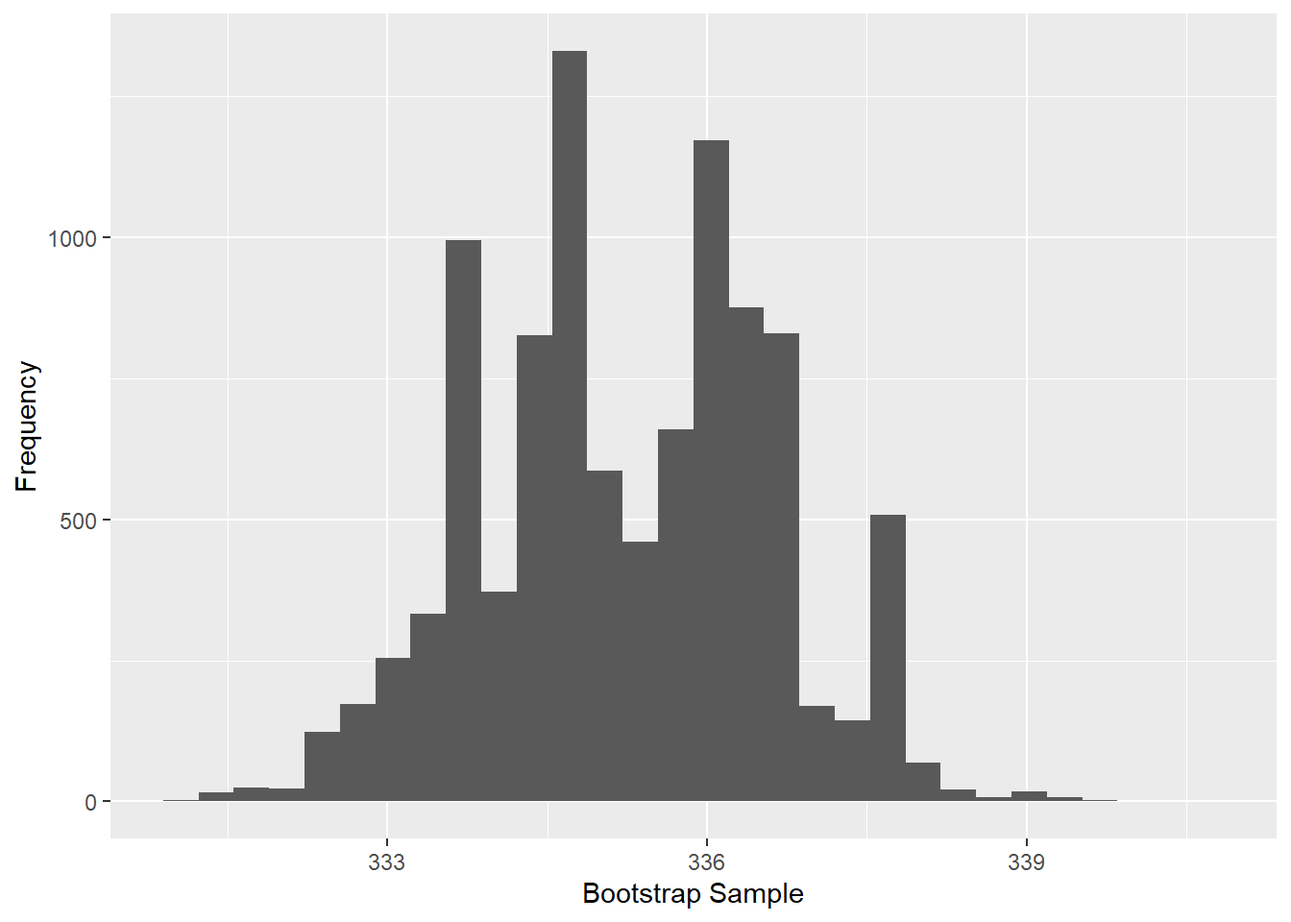
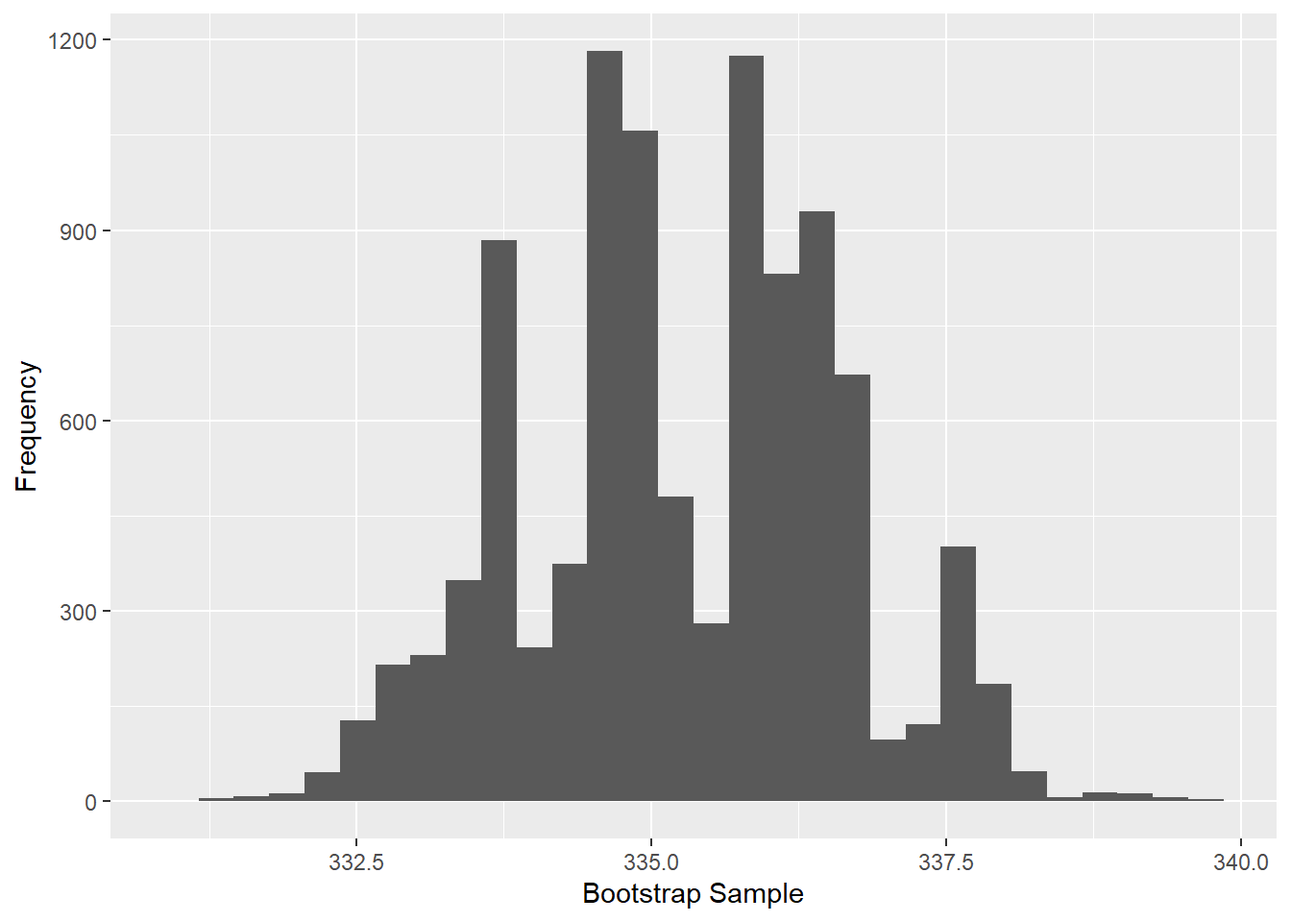
Python Bootstrapping 1

diff --git a/docs/introduction.html b/docs/introduction.html
@@ -23,7 +23,7 @@
 <meta name="author" content="Dr. Susan Simmons" />
 
 
-<meta name="date" content="2023-09-25" />
+<meta name="date" content="2023-09-27" />
 
   <meta name="viewport" content="width=device-width, initial-scale=1" />
   <meta name="apple-mobile-web-app-capable" content="yes" />
@@ -149,7 +149,10 @@ code span.wa { color: #60a0b0; font-weight: bold; font-style: italic; } /* Warni
 <li class="chapter" data-level="1" data-path="index.html"><a href="index.html"><i class="fa fa-check"></i><b>1</b> Data Mining</a></li>
 <li class="chapter" data-level="2" data-path="introduction.html"><a href="introduction.html"><i class="fa fa-check"></i><b>2</b> Introduction</a>
 <ul>
-<li class="chapter" data-level="2.1" data-path="introduction.html"><a href="introduction.html#bootstrapping"><i class="fa fa-check"></i><b>2.1</b> Bootstrapping</a></li>
+<li class="chapter" data-level="2.1" data-path="introduction.html"><a href="introduction.html#bootstrapping"><i class="fa fa-check"></i><b>2.1</b> Bootstrapping</a>
+<ul>
+<li class="chapter" data-level="2.1.1" data-path="introduction.html"><a href="introduction.html#python-for-bootstrapping"><i class="fa fa-check"></i><b>2.1.1</b> Python for Bootstrapping</a></li>
+</ul></li>
 <li class="chapter" data-level="2.2" data-path="introduction.html"><a href="introduction.html#adjusting-p-values"><i class="fa fa-check"></i><b>2.2</b> Adjusting p-values</a></li>
 <li class="chapter" data-level="2.3" data-path="introduction.html"><a href="introduction.html#transaction-data"><i class="fa fa-check"></i><b>2.3</b> Transaction data</a></li>
 <li class="chapter" data-level="2.4" data-path="introduction.html"><a href="introduction.html#association-analysis"><i class="fa fa-check"></i><b>2.4</b> Association Analysis</a></li>
@@ -222,8 +225,11 @@ code span.wa { color: #60a0b0; font-weight: bold; font-style: italic; } /* Warni
 <span id="cb1-26"><a href="introduction.html#cb1-26" tabindex="-1"></a><span class="fu">library</span>(partykit)</span>
 <span id="cb1-27"><a href="introduction.html#cb1-27" tabindex="-1"></a><span class="fu">library</span>(dbscan)</span>
 <span id="cb1-28"><a href="introduction.html#cb1-28" tabindex="-1"></a><span class="fu">library</span>(AmesHousing)</span>
-<span id="cb1-29"><a href="introduction.html#cb1-29" tabindex="-1"></a></span>
-<span id="cb1-30"><a href="introduction.html#cb1-30" tabindex="-1"></a><span class="co">#library(knitr)</span></span></code></pre></div>
+<span id="cb1-29"><a href="introduction.html#cb1-29" tabindex="-1"></a><span class="fu">library</span>(reticulate)</span>
+<span id="cb1-30"><a href="introduction.html#cb1-30" tabindex="-1"></a></span>
+<span id="cb1-31"><a href="introduction.html#cb1-31" tabindex="-1"></a><span class="fu">use_python</span>(<span class="st">&quot;C:</span><span class="sc">\\</span><span class="st">ProgramData</span><span class="sc">\\</span><span class="st">Anaconda3</span><span class="sc">\\</span><span class="st">python.exe&quot;</span>)</span>
+<span id="cb1-32"><a href="introduction.html#cb1-32" tabindex="-1"></a></span>
+<span id="cb1-33"><a href="introduction.html#cb1-33" tabindex="-1"></a><span class="co">#library(knitr)</span></span></code></pre></div>
 <p>Also, be sure to load the following data sets:</p>
 <div class="sourceCode" id="cb2"><pre class="sourceCode r"><code class="sourceCode r"><span id="cb2-1"><a href="introduction.html#cb2-1" tabindex="-1"></a>check<span class="ot">=</span><span class="fu">read.table</span>(<span class="st">&quot;Q:</span><span class="sc">\\</span><span class="st">My Drive</span><span class="sc">\\</span><span class="st">Data Mining</span><span class="sc">\\</span><span class="st">Data</span><span class="sc">\\</span><span class="st">Checking.csv&quot;</span>,<span class="at">sep=</span><span class="st">&#39;,&#39;</span>,<span class="at">header=</span>T)</span>
 <span id="cb2-2"><a href="introduction.html#cb2-2" tabindex="-1"></a></span>
@@ -258,12 +264,12 @@ code span.wa { color: #60a0b0; font-weight: bold; font-style: italic; } /* Warni
 <span id="cb5-8"><a href="introduction.html#cb5-8" tabindex="-1"></a>  boot.med[i]<span class="ot">=</span><span class="fu">median</span>(boot.samp)</span>
 <span id="cb5-9"><a href="introduction.html#cb5-9" tabindex="-1"></a>}</span>
 <span id="cb5-10"><a href="introduction.html#cb5-10" tabindex="-1"></a><span class="fu">sd</span>(boot.med)</span>
-<span id="cb5-11"><a href="introduction.html#cb5-11" tabindex="-1"></a><span class="do">## [1] 1.351849</span></span>
+<span id="cb5-11"><a href="introduction.html#cb5-11" tabindex="-1"></a><span class="do">## [1] 1.327341</span></span>
 <span id="cb5-12"><a href="introduction.html#cb5-12" tabindex="-1"></a>act.med</span>
 <span id="cb5-13"><a href="introduction.html#cb5-13" tabindex="-1"></a><span class="do">## [1] 335.17</span></span>
 <span id="cb5-14"><a href="introduction.html#cb5-14" tabindex="-1"></a><span class="fu">quantile</span>(boot.med,<span class="at">probs =</span> <span class="fu">c</span>(<span class="fl">0.025</span>,<span class="fl">0.975</span>))</span>
 <span id="cb5-15"><a href="introduction.html#cb5-15" tabindex="-1"></a><span class="do">##   2.5%  97.5% </span></span>
-<span id="cb5-16"><a href="introduction.html#cb5-16" tabindex="-1"></a><span class="do">## 332.67 337.79</span></span>
+<span id="cb5-16"><a href="introduction.html#cb5-16" tabindex="-1"></a><span class="do">## 332.75 337.79</span></span>
 <span id="cb5-17"><a href="introduction.html#cb5-17" tabindex="-1"></a><span class="fu">ggplot</span>(<span class="at">data=</span><span class="fu">data.frame</span>(boot.med),<span class="fu">aes</span>(<span class="at">x=</span>boot.med))<span class="sc">+</span><span class="fu">geom_histogram</span>() <span class="sc">+</span> <span class="fu">labs</span>(<span class="at">x=</span><span class="st">&quot;Bootstrap Sample&quot;</span>,<span class="at">y=</span><span class="st">&quot;Frequency&quot;</span>)</span>
 <span id="cb5-18"><a href="introduction.html#cb5-18" tabindex="-1"></a><span class="do">## `stat_bin()` using `bins = 30`. Pick better value with `binwidth`.</span></span></code></pre></div>
 <p><img src="bookdownproj_files/figure-html/bootstrap%20confidence%20interval-3.png" width="672" />
@@ -285,28 +291,60 @@ The second example is exploring if the median price of homes in Iowa with air co
 <pre><code>## `stat_bin()` using `bins = 30`. Pick better value with `binwidth`.</code></pre>
 <p><img src="bookdownproj_files/figure-html/bootstrap%20hypothesis%20test-1.png" width="672" /></p>
 <div class="sourceCode" id="cb8"><pre class="sourceCode r"><code class="sourceCode r"><span id="cb8-1"><a href="introduction.html#cb8-1" tabindex="-1"></a><span class="fu">quantile</span>(diff.stat,<span class="at">probs =</span> <span class="fu">c</span>(<span class="fl">0.005</span>,<span class="fl">0.995</span>))</span></code></pre></div>
-<pre><code>##  0.5% 99.5% 
-## 58750 77000</code></pre>
+<pre><code>##     0.5%    99.5% 
+## 58744.78 76840.30</code></pre>
 <p>Since the confidence interval does NOT include 0, we would conclude that the medians appear to be significantly different.</p>
+<div id="python-for-bootstrapping" class="section level3 hasAnchor" number="2.1.1">
+<h3><span class="header-section-number">2.1.1</span> Python for Bootstrapping<a href="introduction.html#python-for-bootstrapping" class="anchor-section" aria-label="Anchor link to header"></a></h3>
+<div class="sourceCode" id="cb10"><pre class="sourceCode python"><code class="sourceCode python"><span id="cb10-1"><a href="introduction.html#cb10-1" tabindex="-1"></a><span class="im">from</span> matplotlib <span class="im">import</span> pyplot <span class="im">as</span> plt</span>
+<span id="cb10-2"><a href="introduction.html#cb10-2" tabindex="-1"></a><span class="im">import</span> numpy <span class="im">as</span> np</span>
+<span id="cb10-3"><a href="introduction.html#cb10-3" tabindex="-1"></a><span class="im">import</span> statistics</span>
+<span id="cb10-4"><a href="introduction.html#cb10-4" tabindex="-1"></a><span class="im">from</span> numpy <span class="im">import</span> random</span>
+<span id="cb10-5"><a href="introduction.html#cb10-5" tabindex="-1"></a></span>
+<span id="cb10-6"><a href="introduction.html#cb10-6" tabindex="-1"></a>co2_py <span class="op">=</span> r.co2</span>
+<span id="cb10-7"><a href="introduction.html#cb10-7" tabindex="-1"></a>plt.hist(co2_py)</span></code></pre></div>
+<pre><code>## (array([50., 73., 58., 48., 44., 42., 37., 51., 40., 25.]), array([313.18 , 318.546, 323.912, 329.278, 334.644, 340.01 , 345.376,
+##        350.742, 356.108, 361.474, 366.84 ]), &lt;BarContainer object of 10 artists&gt;)</code></pre>
+<div class="sourceCode" id="cb12"><pre class="sourceCode python"><code class="sourceCode python"><span id="cb12-1"><a href="introduction.html#cb12-1" tabindex="-1"></a>plt.show()</span>
+<span id="cb12-2"><a href="introduction.html#cb12-2" tabindex="-1"></a></span>
+<span id="cb12-3"><a href="introduction.html#cb12-3" tabindex="-1"></a><span class="co"># Actual median</span></span></code></pre></div>
+<p><img src="bookdownproj_files/figure-html/unnamed-chunk-1-1.png" width="672" /></p>
+<div class="sourceCode" id="cb13"><pre class="sourceCode python"><code class="sourceCode python"><span id="cb13-1"><a href="introduction.html#cb13-1" tabindex="-1"></a><span class="bu">print</span>(statistics.median(co2_py))</span>
+<span id="cb13-2"><a href="introduction.html#cb13-2" tabindex="-1"></a></span>
+<span id="cb13-3"><a href="introduction.html#cb13-3" tabindex="-1"></a><span class="co"># Bootstrap sample</span></span></code></pre></div>
+<pre><code>## 335.17</code></pre>
+<div class="sourceCode" id="cb15"><pre class="sourceCode python"><code class="sourceCode python"><span id="cb15-1"><a href="introduction.html#cb15-1" tabindex="-1"></a>n <span class="op">=</span> <span class="bu">len</span>(co2_py)</span>
+<span id="cb15-2"><a href="introduction.html#cb15-2" tabindex="-1"></a>temp <span class="op">=</span> []</span>
+<span id="cb15-3"><a href="introduction.html#cb15-3" tabindex="-1"></a><span class="cf">for</span> i <span class="kw">in</span> <span class="bu">range</span>(<span class="dv">1000</span>):</span>
+<span id="cb15-4"><a href="introduction.html#cb15-4" tabindex="-1"></a>  temp.append(statistics.median(random.choice(co2_py,n)))</span>
+<span id="cb15-5"><a href="introduction.html#cb15-5" tabindex="-1"></a><span class="co">#temp =statistics.median(random.choice(co2_py,n))</span></span>
+<span id="cb15-6"><a href="introduction.html#cb15-6" tabindex="-1"></a></span>
+<span id="cb15-7"><a href="introduction.html#cb15-7" tabindex="-1"></a><span class="bu">print</span>(statistics.stdev(temp))</span></code></pre></div>
+<pre><code>## 1.3351758780776406</code></pre>
+<div class="sourceCode" id="cb17"><pre class="sourceCode python"><code class="sourceCode python"><span id="cb17-1"><a href="introduction.html#cb17-1" tabindex="-1"></a><span class="bu">print</span>(<span class="st">&quot;Lower 95</span><span class="sc">% c</span><span class="st">onfidence interval for median&quot;</span>,np.quantile(temp,<span class="fl">0.025</span>))</span></code></pre></div>
+<pre><code>## Lower 95% confidence interval for median 332.75</code></pre>
+<div class="sourceCode" id="cb19"><pre class="sourceCode python"><code class="sourceCode python"><span id="cb19-1"><a href="introduction.html#cb19-1" tabindex="-1"></a><span class="bu">print</span>(<span class="st">&quot;Upper 95</span><span class="sc">% c</span><span class="st">onfidence interval for median&quot;</span>,np.quantile(temp,<span class="fl">0.975</span>))</span></code></pre></div>
+<pre><code>## Upper 95% confidence interval for median 337.79</code></pre>
+</div>
 </div>
 <div id="adjusting-p-values" class="section level2 hasAnchor" number="2.2">
 <h2><span class="header-section-number">2.2</span> Adjusting p-values<a href="introduction.html#adjusting-p-values" class="anchor-section" aria-label="Anchor link to header"></a></h2>
 <p>The package p.adjust will do the Bonferroni adjustment, Benjamini &amp; Hochberg and many other adjustments for p-values when you are conducting a lot of tests! All you need to do is send it a vector of p-values and it will return the adjusted p-values!</p>
-<div class="sourceCode" id="cb10"><pre class="sourceCode r"><code class="sourceCode r"><span id="cb10-1"><a href="introduction.html#cb10-1" tabindex="-1"></a></span>
-<span id="cb10-2"><a href="introduction.html#cb10-2" tabindex="-1"></a>temp<span class="ot">=</span><span class="fu">c</span>(<span class="fl">0.001</span>,<span class="fl">0.03</span>,<span class="fl">0.2</span>,<span class="fl">0.4</span>)</span>
-<span id="cb10-3"><a href="introduction.html#cb10-3" tabindex="-1"></a><span class="co">#Bonferoni</span></span>
-<span id="cb10-4"><a href="introduction.html#cb10-4" tabindex="-1"></a><span class="fu">p.adjust</span>(temp,<span class="at">method=</span><span class="st">&quot;bonferroni&quot;</span>)</span>
-<span id="cb10-5"><a href="introduction.html#cb10-5" tabindex="-1"></a><span class="do">## [1] 0.004 0.120 0.800 1.000</span></span>
-<span id="cb10-6"><a href="introduction.html#cb10-6" tabindex="-1"></a><span class="co">#Benjamini &amp; Hochberg</span></span>
-<span id="cb10-7"><a href="introduction.html#cb10-7" tabindex="-1"></a><span class="fu">p.adjust</span>(temp,<span class="at">method=</span><span class="st">&quot;BH&quot;</span>)</span>
-<span id="cb10-8"><a href="introduction.html#cb10-8" tabindex="-1"></a><span class="do">## [1] 0.0040000 0.0600000 0.2666667 0.4000000</span></span></code></pre></div>
+<div class="sourceCode" id="cb21"><pre class="sourceCode r"><code class="sourceCode r"><span id="cb21-1"><a href="introduction.html#cb21-1" tabindex="-1"></a></span>
+<span id="cb21-2"><a href="introduction.html#cb21-2" tabindex="-1"></a>temp<span class="ot">=</span><span class="fu">c</span>(<span class="fl">0.001</span>,<span class="fl">0.03</span>,<span class="fl">0.2</span>,<span class="fl">0.4</span>)</span>
+<span id="cb21-3"><a href="introduction.html#cb21-3" tabindex="-1"></a><span class="co">#Bonferoni</span></span>
+<span id="cb21-4"><a href="introduction.html#cb21-4" tabindex="-1"></a><span class="fu">p.adjust</span>(temp,<span class="at">method=</span><span class="st">&quot;bonferroni&quot;</span>)</span>
+<span id="cb21-5"><a href="introduction.html#cb21-5" tabindex="-1"></a><span class="do">## [1] 0.004 0.120 0.800 1.000</span></span>
+<span id="cb21-6"><a href="introduction.html#cb21-6" tabindex="-1"></a><span class="co">#Benjamini &amp; Hochberg</span></span>
+<span id="cb21-7"><a href="introduction.html#cb21-7" tabindex="-1"></a><span class="fu">p.adjust</span>(temp,<span class="at">method=</span><span class="st">&quot;BH&quot;</span>)</span>
+<span id="cb21-8"><a href="introduction.html#cb21-8" tabindex="-1"></a><span class="do">## [1] 0.0040000 0.0600000 0.2666667 0.4000000</span></span></code></pre></div>
 </div>
 <div id="transaction-data" class="section level2 hasAnchor" number="2.3">
 <h2><span class="header-section-number">2.3</span> Transaction data<a href="introduction.html#transaction-data" class="anchor-section" aria-label="Anchor link to header"></a></h2>
 <p>A basic concept you will need is how to deal with transactional data. Trasactional data is usually in the form of a long data set with multiple observation per “ID”. Take for example the following small data set:</p>
 <table class=" lightable-paper lightable-striped" style="font-family: &quot;Arial Narrow&quot;, arial, helvetica, sans-serif; width: auto !important; margin-left: auto; margin-right: auto;">
 <caption>
-<span id="tab:unnamed-chunk-1">Table 2.1: </span>Example
+<span id="tab:unnamed-chunk-2">Table 2.1: </span>Example
 </caption>
 <thead>
 <tr>
@@ -425,16 +463,16 @@ NA
 </tbody>
 </table>
 <p>Notice that there are four transactions for Person 1, four transactions for Person 2 (including a missing value) and three transactions for Person 3. We will need to “roll” these up into one observation per person.</p>
-<div class="sourceCode" id="cb11"><pre class="sourceCode r"><code class="sourceCode r"><span id="cb11-1"><a href="introduction.html#cb11-1" tabindex="-1"></a>new.check <span class="ot">=</span> check <span class="sc">%&gt;%</span> <span class="fu">group_by</span>(ID) <span class="sc">%&gt;%</span></span>
-<span id="cb11-2"><a href="introduction.html#cb11-2" tabindex="-1"></a>  <span class="fu">summarise</span>(<span class="at">mean.check=</span><span class="fu">mean</span>(Checking,<span class="at">na.rm=</span>T),<span class="at">std.check=</span><span class="fu">sd</span>(Checking,<span class="at">na.rm=</span>T))</span></code></pre></div>
+<div class="sourceCode" id="cb22"><pre class="sourceCode r"><code class="sourceCode r"><span id="cb22-1"><a href="introduction.html#cb22-1" tabindex="-1"></a>new.check <span class="ot">=</span> check <span class="sc">%&gt;%</span> <span class="fu">group_by</span>(ID) <span class="sc">%&gt;%</span></span>
+<span id="cb22-2"><a href="introduction.html#cb22-2" tabindex="-1"></a>  <span class="fu">summarise</span>(<span class="at">mean.check=</span><span class="fu">mean</span>(Checking,<span class="at">na.rm=</span>T),<span class="at">std.check=</span><span class="fu">sd</span>(Checking,<span class="at">na.rm=</span>T))</span></code></pre></div>
 <p>It is HIGHLY recommended that you ALWAYS create a flag for missing values (do this BEFORE rolling up). The following code creates the flag for the missing values and then rolls everything up:</p>
-<div class="sourceCode" id="cb12"><pre class="sourceCode r"><code class="sourceCode r"><span id="cb12-1"><a href="introduction.html#cb12-1" tabindex="-1"></a>check<span class="sc">$</span>flag<span class="ot">=</span><span class="fu">ifelse</span>(<span class="fu">is.na</span>(check<span class="sc">$</span>Checking),<span class="dv">1</span>,<span class="dv">0</span>)</span>
-<span id="cb12-2"><a href="introduction.html#cb12-2" tabindex="-1"></a></span>
-<span id="cb12-3"><a href="introduction.html#cb12-3" tabindex="-1"></a>new.check <span class="ot">=</span> check <span class="sc">%&gt;%</span> <span class="fu">group_by</span>(ID) <span class="sc">%&gt;%</span></span>
-<span id="cb12-4"><a href="introduction.html#cb12-4" tabindex="-1"></a>  <span class="fu">summarise</span>(<span class="at">mean.check=</span><span class="fu">mean</span>(Checking,<span class="at">na.rm=</span>T),<span class="at">std.check=</span><span class="fu">sd</span>(Checking,<span class="at">na.rm=</span>T),<span class="at">na.check=</span><span class="fu">sum</span>(flag))</span></code></pre></div>
+<div class="sourceCode" id="cb23"><pre class="sourceCode r"><code class="sourceCode r"><span id="cb23-1"><a href="introduction.html#cb23-1" tabindex="-1"></a>check<span class="sc">$</span>flag<span class="ot">=</span><span class="fu">ifelse</span>(<span class="fu">is.na</span>(check<span class="sc">$</span>Checking),<span class="dv">1</span>,<span class="dv">0</span>)</span>
+<span id="cb23-2"><a href="introduction.html#cb23-2" tabindex="-1"></a></span>
+<span id="cb23-3"><a href="introduction.html#cb23-3" tabindex="-1"></a>new.check <span class="ot">=</span> check <span class="sc">%&gt;%</span> <span class="fu">group_by</span>(ID) <span class="sc">%&gt;%</span></span>
+<span id="cb23-4"><a href="introduction.html#cb23-4" tabindex="-1"></a>  <span class="fu">summarise</span>(<span class="at">mean.check=</span><span class="fu">mean</span>(Checking,<span class="at">na.rm=</span>T),<span class="at">std.check=</span><span class="fu">sd</span>(Checking,<span class="at">na.rm=</span>T),<span class="at">na.check=</span><span class="fu">sum</span>(flag))</span></code></pre></div>
 <table class=" lightable-paper lightable-striped" style="font-family: &quot;Arial Narrow&quot;, arial, helvetica, sans-serif; width: auto !important; margin-left: auto; margin-right: auto;">
 <caption>
-<span id="tab:unnamed-chunk-2">Table 2.2: </span>Rolled up
+<span id="tab:unnamed-chunk-3">Table 2.2: </span>Rolled up
 </caption>
 <thead>
 <tr>
@@ -628,8 +666,8 @@ bread
 </tbody>
 </table>
 <p>As you can see, there is a separate line for each item. If we want to analyze this data set with the package ‘arules’, we need the data to be wide (not long). In other words, one line per ID. We can create the wide data set in R by using the following line (and then “inspect” it or view it).</p>
-<div class="sourceCode" id="cb13"><pre class="sourceCode r"><code class="sourceCode r"><span id="cb13-1"><a href="introduction.html#cb13-1" tabindex="-1"></a>trans.dat <span class="ot">&lt;-</span> <span class="fu">as</span>(<span class="fu">split</span>(temp.dat<span class="sc">$</span>Grocery, temp.dat<span class="sc">$</span>ID), <span class="st">&quot;transactions&quot;</span>)</span>
-<span id="cb13-2"><a href="introduction.html#cb13-2" tabindex="-1"></a><span class="fu">inspect</span>(trans.dat)</span></code></pre></div>
+<div class="sourceCode" id="cb24"><pre class="sourceCode r"><code class="sourceCode r"><span id="cb24-1"><a href="introduction.html#cb24-1" tabindex="-1"></a>trans.dat <span class="ot">&lt;-</span> <span class="fu">as</span>(<span class="fu">split</span>(temp.dat<span class="sc">$</span>Grocery, temp.dat<span class="sc">$</span>ID), <span class="st">&quot;transactions&quot;</span>)</span>
+<span id="cb24-2"><a href="introduction.html#cb24-2" tabindex="-1"></a><span class="fu">inspect</span>(trans.dat)</span></code></pre></div>
 <pre><code>##      items                             transactionID
 ## [1]  {bread, egg, oat packet, papaya}  1            
 ## [2]  {bread, milk, oat packet, papaya} 2            
@@ -643,14 +681,14 @@ bread
 ## [10] {bread, milk, papaya}             10           
 ## [11] {egg, milk}                       11</code></pre>
 <p>The following code runs the association analysis and stores the results in the object rules. Once you have this stored object, you can view it and partition it in different ways..</p>
-<div class="sourceCode" id="cb15"><pre class="sourceCode r"><code class="sourceCode r"><span id="cb15-1"><a href="introduction.html#cb15-1" tabindex="-1"></a>trans.dat<span class="sc">@</span>itemInfo<span class="sc">$</span>labels</span></code></pre></div>
+<div class="sourceCode" id="cb26"><pre class="sourceCode r"><code class="sourceCode r"><span id="cb26-1"><a href="introduction.html#cb26-1" tabindex="-1"></a>trans.dat<span class="sc">@</span>itemInfo<span class="sc">$</span>labels</span></code></pre></div>
 <pre><code>## [1] &quot;bread&quot;      &quot;butter&quot;     &quot;egg&quot;        &quot;milk&quot;       &quot;oat packet&quot;
 ## [6] &quot;papaya&quot;</code></pre>
-<div class="sourceCode" id="cb17"><pre class="sourceCode r"><code class="sourceCode r"><span id="cb17-1"><a href="introduction.html#cb17-1" tabindex="-1"></a><span class="co"># Create an item frequency plot for the top 3 items</span></span>
-<span id="cb17-2"><a href="introduction.html#cb17-2" tabindex="-1"></a><span class="fu">itemFrequencyPlot</span>(trans.dat,<span class="at">topN=</span><span class="dv">3</span>,<span class="at">type=</span><span class="st">&quot;absolute&quot;</span>)</span></code></pre></div>
+<div class="sourceCode" id="cb28"><pre class="sourceCode r"><code class="sourceCode r"><span id="cb28-1"><a href="introduction.html#cb28-1" tabindex="-1"></a><span class="co"># Create an item frequency plot for the top 3 items</span></span>
+<span id="cb28-2"><a href="introduction.html#cb28-2" tabindex="-1"></a><span class="fu">itemFrequencyPlot</span>(trans.dat,<span class="at">topN=</span><span class="dv">3</span>,<span class="at">type=</span><span class="st">&quot;absolute&quot;</span>)</span></code></pre></div>
 <p><img src="bookdownproj_files/figure-html/association2-1.png" width="672" /></p>
-<div class="sourceCode" id="cb18"><pre class="sourceCode r"><code class="sourceCode r"><span id="cb18-1"><a href="introduction.html#cb18-1" tabindex="-1"></a><span class="co"># Get the rules</span></span>
-<span id="cb18-2"><a href="introduction.html#cb18-2" tabindex="-1"></a>rules <span class="ot">&lt;-</span> <span class="fu">apriori</span>(trans.dat, <span class="at">parameter =</span> <span class="fu">list</span>(<span class="at">supp =</span> <span class="fl">0.1</span>, <span class="at">conf =</span> <span class="fl">0.001</span>, <span class="at">target=</span><span class="st">&quot;rules&quot;</span>))</span></code></pre></div>
+<div class="sourceCode" id="cb29"><pre class="sourceCode r"><code class="sourceCode r"><span id="cb29-1"><a href="introduction.html#cb29-1" tabindex="-1"></a><span class="co"># Get the rules</span></span>
+<span id="cb29-2"><a href="introduction.html#cb29-2" tabindex="-1"></a>rules <span class="ot">&lt;-</span> <span class="fu">apriori</span>(trans.dat, <span class="at">parameter =</span> <span class="fu">list</span>(<span class="at">supp =</span> <span class="fl">0.1</span>, <span class="at">conf =</span> <span class="fl">0.001</span>, <span class="at">target=</span><span class="st">&quot;rules&quot;</span>))</span></code></pre></div>
 <pre><code>## Apriori
 ## 
 ## Parameter specification:
@@ -672,9 +710,9 @@ bread
 ## checking subsets of size 1 2 3 done [0.00s].
 ## writing ... [32 rule(s)] done [0.00s].
 ## creating S4 object  ... done [0.00s].</code></pre>
-<div class="sourceCode" id="cb20"><pre class="sourceCode r"><code class="sourceCode r"><span id="cb20-1"><a href="introduction.html#cb20-1" tabindex="-1"></a>rules<span class="ot">&lt;-</span><span class="fu">sort</span>(rules, <span class="at">by=</span><span class="st">&quot;confidence&quot;</span>, <span class="at">decreasing=</span><span class="cn">TRUE</span>)</span>
-<span id="cb20-2"><a href="introduction.html#cb20-2" tabindex="-1"></a></span>
-<span id="cb20-3"><a href="introduction.html#cb20-3" tabindex="-1"></a><span class="fu">inspect</span>(rules[<span class="dv">1</span><span class="sc">:</span><span class="dv">4</span>])</span></code></pre></div>
+<div class="sourceCode" id="cb31"><pre class="sourceCode r"><code class="sourceCode r"><span id="cb31-1"><a href="introduction.html#cb31-1" tabindex="-1"></a>rules<span class="ot">&lt;-</span><span class="fu">sort</span>(rules, <span class="at">by=</span><span class="st">&quot;confidence&quot;</span>, <span class="at">decreasing=</span><span class="cn">TRUE</span>)</span>
+<span id="cb31-2"><a href="introduction.html#cb31-2" tabindex="-1"></a></span>
+<span id="cb31-3"><a href="introduction.html#cb31-3" tabindex="-1"></a><span class="fu">inspect</span>(rules[<span class="dv">1</span><span class="sc">:</span><span class="dv">4</span>])</span></code></pre></div>
 <pre><code>##     lhs                    rhs      support   confidence coverage  lift    
 ## [1] {butter}            =&gt; {bread}  0.2727273 1.0000000  0.2727273 1.571429
 ## [2] {bread, oat packet} =&gt; {papaya} 0.1818182 1.0000000  0.1818182 1.833333
@@ -685,7 +723,7 @@ bread
 ## [2] 2    
 ## [3] 3    
 ## [4] 4</code></pre>
-<div class="sourceCode" id="cb22"><pre class="sourceCode r"><code class="sourceCode r"><span id="cb22-1"><a href="introduction.html#cb22-1" tabindex="-1"></a>oat.rules <span class="ot">=</span> <span class="fu">apriori</span>(trans.dat, <span class="at">parameter =</span> <span class="fu">list</span>(<span class="at">supp=</span><span class="fl">0.001</span>, <span class="at">conf=</span><span class="fl">0.8</span>),<span class="at">appearance =</span> <span class="fu">list</span>(<span class="at">default=</span><span class="st">&quot;lhs&quot;</span>,<span class="at">rhs=</span><span class="st">&quot;oat packet&quot;</span>))</span></code></pre></div>
+<div class="sourceCode" id="cb33"><pre class="sourceCode r"><code class="sourceCode r"><span id="cb33-1"><a href="introduction.html#cb33-1" tabindex="-1"></a>oat.rules <span class="ot">=</span> <span class="fu">apriori</span>(trans.dat, <span class="at">parameter =</span> <span class="fu">list</span>(<span class="at">supp=</span><span class="fl">0.001</span>, <span class="at">conf=</span><span class="fl">0.8</span>),<span class="at">appearance =</span> <span class="fu">list</span>(<span class="at">default=</span><span class="st">&quot;lhs&quot;</span>,<span class="at">rhs=</span><span class="st">&quot;oat packet&quot;</span>))</span></code></pre></div>
 <pre><code>## Apriori
 ## 
 ## Parameter specification:
@@ -707,7 +745,7 @@ bread
 ## checking subsets of size 1 2 3 4 done [0.00s].
 ## writing ... [2 rule(s)] done [0.00s].
 ## creating S4 object  ... done [0.00s].</code></pre>
-<div class="sourceCode" id="cb24"><pre class="sourceCode r"><code class="sourceCode r"><span id="cb24-1"><a href="introduction.html#cb24-1" tabindex="-1"></a>oat.rules2 <span class="ot">=</span> <span class="fu">apriori</span>(trans.dat, <span class="at">parameter =</span> <span class="fu">list</span>(<span class="at">supp=</span><span class="fl">0.001</span>, <span class="at">conf=</span><span class="fl">0.8</span>),<span class="at">appearance =</span> <span class="fu">list</span>(<span class="at">lhs=</span><span class="st">&quot;oat packet&quot;</span>, <span class="at">default=</span><span class="st">&quot;rhs&quot;</span>))</span></code></pre></div>
+<div class="sourceCode" id="cb35"><pre class="sourceCode r"><code class="sourceCode r"><span id="cb35-1"><a href="introduction.html#cb35-1" tabindex="-1"></a>oat.rules2 <span class="ot">=</span> <span class="fu">apriori</span>(trans.dat, <span class="at">parameter =</span> <span class="fu">list</span>(<span class="at">supp=</span><span class="fl">0.001</span>, <span class="at">conf=</span><span class="fl">0.8</span>),<span class="at">appearance =</span> <span class="fu">list</span>(<span class="at">lhs=</span><span class="st">&quot;oat packet&quot;</span>, <span class="at">default=</span><span class="st">&quot;rhs&quot;</span>))</span></code></pre></div>
 <pre><code>## Apriori
 ## 
 ## Parameter specification:
@@ -729,13 +767,13 @@ bread
 ## checking subsets of size 1 2 done [0.00s].
 ## writing ... [0 rule(s)] done [0.00s].
 ## creating S4 object  ... done [0.00s].</code></pre>
-<div class="sourceCode" id="cb26"><pre class="sourceCode r"><code class="sourceCode r"><span id="cb26-1"><a href="introduction.html#cb26-1" tabindex="-1"></a><span class="fu">plot</span>(rules)</span></code></pre></div>
+<div class="sourceCode" id="cb37"><pre class="sourceCode r"><code class="sourceCode r"><span id="cb37-1"><a href="introduction.html#cb37-1" tabindex="-1"></a><span class="fu">plot</span>(rules)</span></code></pre></div>
 <pre><code>## To reduce overplotting, jitter is added! Use jitter = 0 to prevent jitter.</code></pre>
 <p><img src="bookdownproj_files/figure-html/association2-2.png" width="672" /></p>
-<div class="sourceCode" id="cb28"><pre class="sourceCode r"><code class="sourceCode r"><span id="cb28-1"><a href="introduction.html#cb28-1" tabindex="-1"></a>top10rules <span class="ot">=</span> <span class="fu">head</span>(rules, <span class="at">n =</span> <span class="dv">10</span>, <span class="at">by =</span> <span class="st">&quot;confidence&quot;</span>)</span>
-<span id="cb28-2"><a href="introduction.html#cb28-2" tabindex="-1"></a><span class="fu">plot</span>(top10rules, <span class="at">method =</span> <span class="st">&quot;graph&quot;</span>,  <span class="at">engine =</span> <span class="st">&quot;htmlwidget&quot;</span>)</span></code></pre></div>
-<div class="visNetwork html-widget html-fill-item-overflow-hidden html-fill-item" id="htmlwidget-1d07af6bfe9a1e497898" style="width:672px;height:480px;"></div>
-<script type="application/json" data-for="htmlwidget-1d07af6bfe9a1e497898">{"x":{"nodes":{"id":[1,2,3,4,5,6,7,8,9,10,11,12,13,14,15,16],"label":["bread","butter","egg","milk","oat packet","papaya","rule 1","rule 2","rule 3","rule 4","rule 5","rule 6","rule 7","rule 8","rule 9","rule 10"],"group":[1,1,1,1,1,1,2,2,2,2,2,2,2,2,2,2],"value":[1,1,1,1,1,1,20.8,1,20.8,40.6,1,1,1,100,20.8,40.6],"color":["#CBD2FC","#CBD2FC","#CBD2FC","#CBD2FC","#CBD2FC","#CBD2FC","#EE6666","#EE1B1B","#EE9999","#EECBCB","#EECBCB","#EECBCB","#EEB1B1","#EED4D4","#EEDCDC","#EECBCB"],"title":["bread","butter","egg","milk","oat packet","papaya","<B>[1]<\/B><BR><B>{butter}<\/B><BR>&nbsp;&nbsp; => <B>{bread}<\/B><BR><BR>support = 0.273<BR>confidence = 1<BR>coverage = 0.273<BR>lift = 1.57<BR>count = 3<BR>order = 2<BR>id = 1","<B>[2]<\/B><BR><B>{bread,<BR>&nbsp;&nbsp;oat packet}<\/B><BR>&nbsp;&nbsp; => <B>{papaya}<\/B><BR><BR>support = 0.182<BR>confidence = 1<BR>coverage = 0.182<BR>lift = 1.83<BR>count = 2<BR>order = 3<BR>id = 2","<B>[3]<\/B><BR><B>{oat packet}<\/B><BR>&nbsp;&nbsp; => <B>{papaya}<\/B><BR><BR>support = 0.273<BR>confidence = 0.75<BR>coverage = 0.364<BR>lift = 1.38<BR>count = 3<BR>order = 2<BR>id = 3","<B>[4]<\/B><BR><B>{papaya}<\/B><BR>&nbsp;&nbsp; => <B>{bread}<\/B><BR><BR>support = 0.364<BR>confidence = 0.667<BR>coverage = 0.545<BR>lift = 1.05<BR>count = 4<BR>order = 2<BR>id = 4","<B>[5]<\/B><BR><B>{oat packet,<BR>&nbsp;&nbsp;papaya}<\/B><BR>&nbsp;&nbsp; => <B>{bread}<\/B><BR><BR>support = 0.182<BR>confidence = 0.667<BR>coverage = 0.273<BR>lift = 1.05<BR>count = 2<BR>order = 3<BR>id = 5","<B>[6]<\/B><BR><B>{milk,<BR>&nbsp;&nbsp;papaya}<\/B><BR>&nbsp;&nbsp; => <B>{bread}<\/B><BR><BR>support = 0.182<BR>confidence = 0.667<BR>coverage = 0.273<BR>lift = 1.05<BR>count = 2<BR>order = 3<BR>id = 6","<B>[7]<\/B><BR><B>{bread,<BR>&nbsp;&nbsp;milk}<\/B><BR>&nbsp;&nbsp; => <B>{papaya}<\/B><BR><BR>support = 0.182<BR>confidence = 0.667<BR>coverage = 0.273<BR>lift = 1.22<BR>count = 2<BR>order = 3<BR>id = 7","<B>[8]<\/B><BR><B>{}<\/B><BR>&nbsp;&nbsp; => <B>{bread}<\/B><BR><BR>support = 0.636<BR>confidence = 0.636<BR>coverage = 1<BR>lift = 1<BR>count = 7<BR>order = 1<BR>id = 8","<B>[9]<\/B><BR><B>{egg}<\/B><BR>&nbsp;&nbsp; => <B>{bread}<\/B><BR><BR>support = 0.273<BR>confidence = 0.6<BR>coverage = 0.455<BR>lift = 0.943<BR>count = 3<BR>order = 2<BR>id = 9","<B>[10]<\/B><BR><B>{bread}<\/B><BR>&nbsp;&nbsp; => <B>{papaya}<\/B><BR><BR>support = 0.364<BR>confidence = 0.571<BR>coverage = 0.636<BR>lift = 1.05<BR>count = 4<BR>order = 2<BR>id = 10"],"shape":["box","box","box","box","box","box","circle","circle","circle","circle","circle","circle","circle","circle","circle","circle"],"x":[0.0185639821391286,0.893569393745972,-1,1,-0.581600413884499,0.0425408975139587,0.531202579307462,-0.450882017426488,-0.226016260548234,0.200899193554972,-0.27029873416383,0.562831257304344,0.498481683925306,-0.0166444078403437,-0.576781277003207,-0.288199054257134],"y":[0.0548160229325487,1,0.91618017411264,-0.459171082055886,-0.807906326472706,-0.502699273566291,0.598283611676268,-0.389599243895102,-1,-0.184195720788471,-0.501091160954241,-0.228200020480274,-0.412568351125695,0.530228342351997,0.551168147020109,-0.131622020940451]},"edges":{"from":[2,1,5,5,6,5,6,4,6,1,4,3,1,7,8,9,10,11,12,13,14,15,16],"to":[7,8,8,9,10,11,11,12,12,13,13,15,16,1,6,6,1,1,1,6,1,1,6],"arrows":["to","to","to","to","to","to","to","to","to","to","to","to","to","to","to","to","to","to","to","to","to","to","to"]},"nodesToDataframe":true,"edgesToDataframe":true,"options":{"width":"100%","height":"100%","nodes":{"shape":"dot","physics":false},"manipulation":{"enabled":false},"edges":{"smooth":false},"physics":{"stabilization":false},"interaction":{"hover":true,"zoomSpeed":1}},"groups":["1","2"],"width":null,"height":null,"idselection":{"enabled":true,"style":"width: 150px; height: 26px","useLabels":true,"main":"Select by id"},"byselection":{"enabled":false,"style":"width: 150px; height: 26px","multiple":false,"hideColor":"rgba(200,200,200,0.5)","highlight":false},"main":null,"submain":null,"footer":null,"background":"rgba(0, 0, 0, 0)","igraphlayout":{"type":"square"},"tooltipStay":300,"tooltipStyle":"position: fixed;visibility:hidden;padding: 5px;white-space: nowrap;font-family: verdana;font-size:14px;font-color:#000000;background-color: #f5f4ed;-moz-border-radius: 3px;-webkit-border-radius: 3px;border-radius: 3px;border: 1px solid #808074;box-shadow: 3px 3px 10px rgba(0, 0, 0, 0.2);","highlight":{"enabled":true,"hoverNearest":true,"degree":1,"algorithm":"all","hideColor":"rgba(200,200,200,0.5)","labelOnly":true},"collapse":{"enabled":false,"fit":false,"resetHighlight":true,"clusterOptions":null,"keepCoord":true,"labelSuffix":"(cluster)"}},"evals":[],"jsHooks":[]}</script>
+<div class="sourceCode" id="cb39"><pre class="sourceCode r"><code class="sourceCode r"><span id="cb39-1"><a href="introduction.html#cb39-1" tabindex="-1"></a>top10rules <span class="ot">=</span> <span class="fu">head</span>(rules, <span class="at">n =</span> <span class="dv">10</span>, <span class="at">by =</span> <span class="st">&quot;confidence&quot;</span>)</span>
+<span id="cb39-2"><a href="introduction.html#cb39-2" tabindex="-1"></a><span class="fu">plot</span>(top10rules, <span class="at">method =</span> <span class="st">&quot;graph&quot;</span>,  <span class="at">engine =</span> <span class="st">&quot;htmlwidget&quot;</span>)</span></code></pre></div>
+<div class="visNetwork html-widget html-fill-item-overflow-hidden html-fill-item" id="htmlwidget-da826d24bee0824e4db4" style="width:672px;height:480px;"></div>
+<script type="application/json" data-for="htmlwidget-da826d24bee0824e4db4">{"x":{"nodes":{"id":[1,2,3,4,5,6,7,8,9,10,11,12,13,14,15,16],"label":["bread","butter","egg","milk","oat packet","papaya","rule 1","rule 2","rule 3","rule 4","rule 5","rule 6","rule 7","rule 8","rule 9","rule 10"],"group":[1,1,1,1,1,1,2,2,2,2,2,2,2,2,2,2],"value":[1,1,1,1,1,1,20.8,1,20.8,40.6,1,1,1,100,20.8,40.6],"color":["#CBD2FC","#CBD2FC","#CBD2FC","#CBD2FC","#CBD2FC","#CBD2FC","#EE6666","#EE1B1B","#EE9999","#EECBCB","#EECBCB","#EECBCB","#EEB1B1","#EED4D4","#EEDCDC","#EECBCB"],"title":["bread","butter","egg","milk","oat packet","papaya","<B>[1]<\/B><BR><B>{butter}<\/B><BR>&nbsp;&nbsp; => <B>{bread}<\/B><BR><BR>support = 0.273<BR>confidence = 1<BR>coverage = 0.273<BR>lift = 1.57<BR>count = 3<BR>order = 2<BR>id = 1","<B>[2]<\/B><BR><B>{bread,<BR>&nbsp;&nbsp;oat packet}<\/B><BR>&nbsp;&nbsp; => <B>{papaya}<\/B><BR><BR>support = 0.182<BR>confidence = 1<BR>coverage = 0.182<BR>lift = 1.83<BR>count = 2<BR>order = 3<BR>id = 2","<B>[3]<\/B><BR><B>{oat packet}<\/B><BR>&nbsp;&nbsp; => <B>{papaya}<\/B><BR><BR>support = 0.273<BR>confidence = 0.75<BR>coverage = 0.364<BR>lift = 1.38<BR>count = 3<BR>order = 2<BR>id = 3","<B>[4]<\/B><BR><B>{papaya}<\/B><BR>&nbsp;&nbsp; => <B>{bread}<\/B><BR><BR>support = 0.364<BR>confidence = 0.667<BR>coverage = 0.545<BR>lift = 1.05<BR>count = 4<BR>order = 2<BR>id = 4","<B>[5]<\/B><BR><B>{oat packet,<BR>&nbsp;&nbsp;papaya}<\/B><BR>&nbsp;&nbsp; => <B>{bread}<\/B><BR><BR>support = 0.182<BR>confidence = 0.667<BR>coverage = 0.273<BR>lift = 1.05<BR>count = 2<BR>order = 3<BR>id = 5","<B>[6]<\/B><BR><B>{milk,<BR>&nbsp;&nbsp;papaya}<\/B><BR>&nbsp;&nbsp; => <B>{bread}<\/B><BR><BR>support = 0.182<BR>confidence = 0.667<BR>coverage = 0.273<BR>lift = 1.05<BR>count = 2<BR>order = 3<BR>id = 6","<B>[7]<\/B><BR><B>{bread,<BR>&nbsp;&nbsp;milk}<\/B><BR>&nbsp;&nbsp; => <B>{papaya}<\/B><BR><BR>support = 0.182<BR>confidence = 0.667<BR>coverage = 0.273<BR>lift = 1.22<BR>count = 2<BR>order = 3<BR>id = 7","<B>[8]<\/B><BR><B>{}<\/B><BR>&nbsp;&nbsp; => <B>{bread}<\/B><BR><BR>support = 0.636<BR>confidence = 0.636<BR>coverage = 1<BR>lift = 1<BR>count = 7<BR>order = 1<BR>id = 8","<B>[9]<\/B><BR><B>{egg}<\/B><BR>&nbsp;&nbsp; => <B>{bread}<\/B><BR><BR>support = 0.273<BR>confidence = 0.6<BR>coverage = 0.455<BR>lift = 0.943<BR>count = 3<BR>order = 2<BR>id = 9","<B>[10]<\/B><BR><B>{bread}<\/B><BR>&nbsp;&nbsp; => <B>{papaya}<\/B><BR><BR>support = 0.364<BR>confidence = 0.571<BR>coverage = 0.636<BR>lift = 1.05<BR>count = 4<BR>order = 2<BR>id = 10"],"shape":["box","box","box","box","box","box","circle","circle","circle","circle","circle","circle","circle","circle","circle","circle"],"x":[0.0756754229853067,-1,0.0243312589612872,1,-0.17717739601388,0.240477621304422,-0.542298764457738,-0.00767195720569114,0.160021597442664,-0.125107129454558,-0.184363193017098,0.575000815511772,0.602460548639572,0.339040705181898,0.0297545282451042,0.307440413642744],"y":[-0.0627878934125082,0.404643634395936,1,-0.364575069578913,-0.905811720410451,-0.524752746313351,0.210627632179079,-0.586373684653148,-1,-0.270428546243636,-0.524486736587657,-0.390304009971814,-0.22231579726086,0.312775495318878,0.553569653961739,-0.198382871107416]},"edges":{"from":[2,1,5,5,6,5,6,4,6,1,4,3,1,7,8,9,10,11,12,13,14,15,16],"to":[7,8,8,9,10,11,11,12,12,13,13,15,16,1,6,6,1,1,1,6,1,1,6],"arrows":["to","to","to","to","to","to","to","to","to","to","to","to","to","to","to","to","to","to","to","to","to","to","to"]},"nodesToDataframe":true,"edgesToDataframe":true,"options":{"width":"100%","height":"100%","nodes":{"shape":"dot","physics":false},"manipulation":{"enabled":false},"edges":{"smooth":false},"physics":{"stabilization":false},"interaction":{"hover":true,"zoomSpeed":1}},"groups":["1","2"],"width":null,"height":null,"idselection":{"enabled":true,"style":"width: 150px; height: 26px","useLabels":true,"main":"Select by id"},"byselection":{"enabled":false,"style":"width: 150px; height: 26px","multiple":false,"hideColor":"rgba(200,200,200,0.5)","highlight":false},"main":null,"submain":null,"footer":null,"background":"rgba(0, 0, 0, 0)","igraphlayout":{"type":"square"},"tooltipStay":300,"tooltipStyle":"position: fixed;visibility:hidden;padding: 5px;white-space: nowrap;font-family: verdana;font-size:14px;font-color:#000000;background-color: #f5f4ed;-moz-border-radius: 3px;-webkit-border-radius: 3px;border-radius: 3px;border: 1px solid #808074;box-shadow: 3px 3px 10px rgba(0, 0, 0, 0.2);","highlight":{"enabled":true,"hoverNearest":true,"degree":1,"algorithm":"all","hideColor":"rgba(200,200,200,0.5)","labelOnly":true},"collapse":{"enabled":false,"fit":false,"resetHighlight":true,"clusterOptions":null,"keepCoord":true,"labelSuffix":"(cluster)"}},"evals":[],"jsHooks":[]}</script>
 
 </div>
 </div>

diff --git a/docs/404.html b/docs/404.html
@@ -23,7 +23,7 @@
 <meta name="author" content="Dr. Susan Simmons" />
 
 
-<meta name="date" content="2023-09-25" />
+<meta name="date" content="2023-09-27" />
 
   <meta name="viewport" content="width=device-width, initial-scale=1" />
   <meta name="apple-mobile-web-app-capable" content="yes" />
@@ -149,7 +149,10 @@ code span.wa { color: #60a0b0; font-weight: bold; font-style: italic; } /* Warni
 <li class="chapter" data-level="1" data-path="index.html"><a href="index.html"><i class="fa fa-check"></i><b>1</b> Data Mining</a></li>
 <li class="chapter" data-level="2" data-path="introduction.html"><a href="introduction.html"><i class="fa fa-check"></i><b>2</b> Introduction</a>
 <ul>
-<li class="chapter" data-level="2.1" data-path="introduction.html"><a href="introduction.html#bootstrapping"><i class="fa fa-check"></i><b>2.1</b> Bootstrapping</a></li>
+<li class="chapter" data-level="2.1" data-path="introduction.html"><a href="introduction.html#bootstrapping"><i class="fa fa-check"></i><b>2.1</b> Bootstrapping</a>
+<ul>
+<li class="chapter" data-level="2.1.1" data-path="introduction.html"><a href="introduction.html#python-for-bootstrapping"><i class="fa fa-check"></i><b>2.1.1</b> Python for Bootstrapping</a></li>
+</ul></li>
 <li class="chapter" data-level="2.2" data-path="introduction.html"><a href="introduction.html#adjusting-p-values"><i class="fa fa-check"></i><b>2.2</b> Adjusting p-values</a></li>
 <li class="chapter" data-level="2.3" data-path="introduction.html"><a href="introduction.html#transaction-data"><i class="fa fa-check"></i><b>2.3</b> Transaction data</a></li>
 <li class="chapter" data-level="2.4" data-path="introduction.html"><a href="introduction.html#association-analysis"><i class="fa fa-check"></i><b>2.4</b> Association Analysis</a></li>
